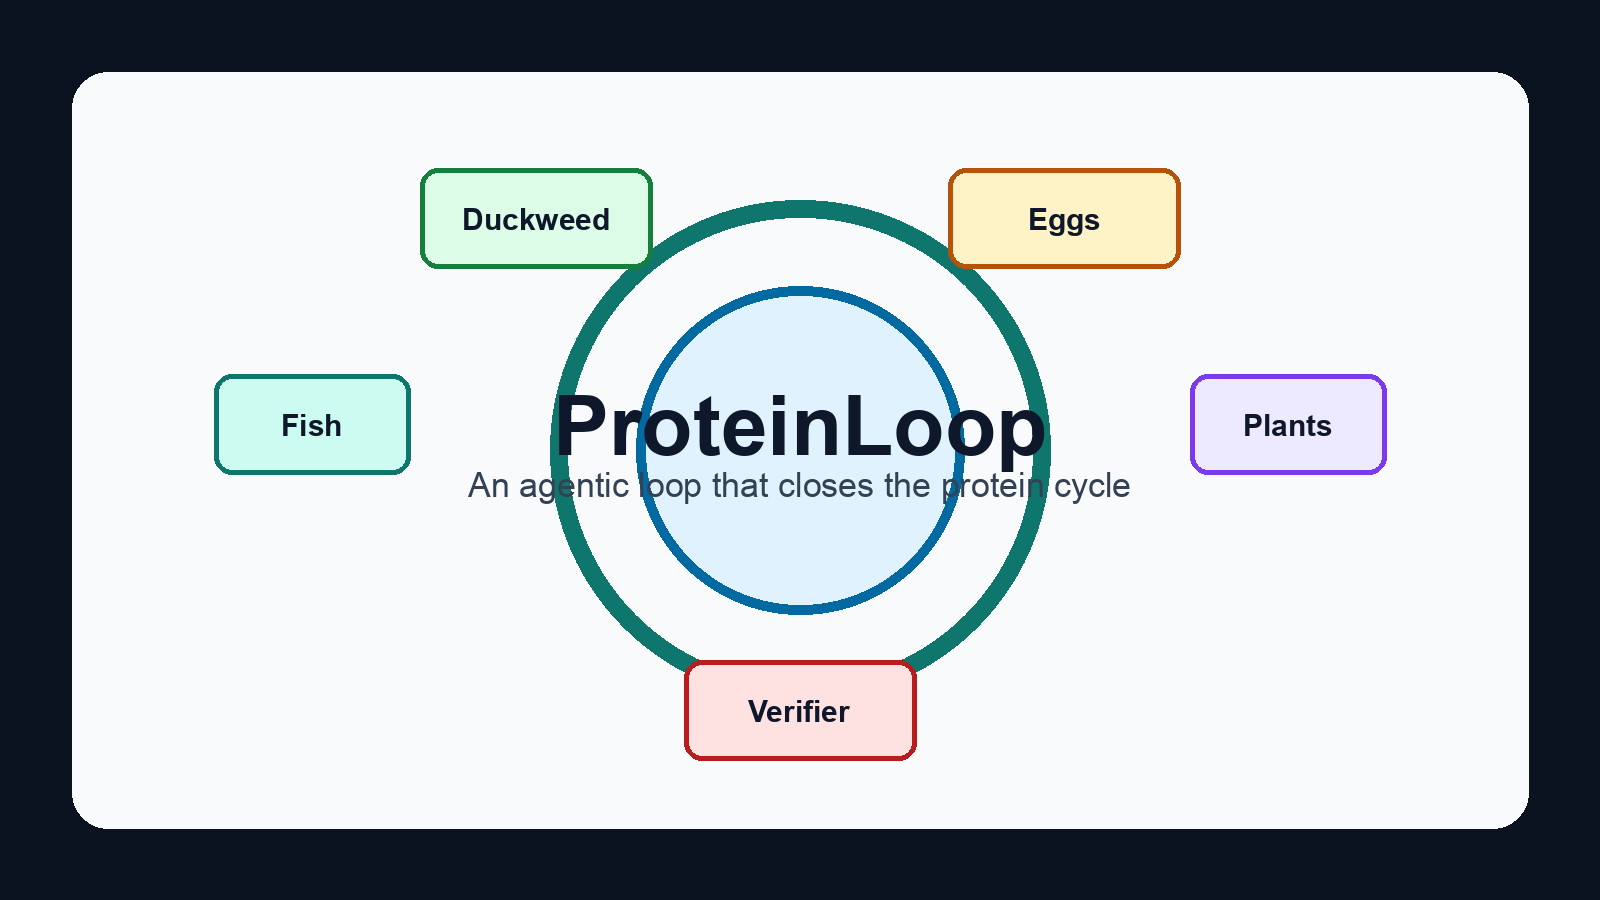
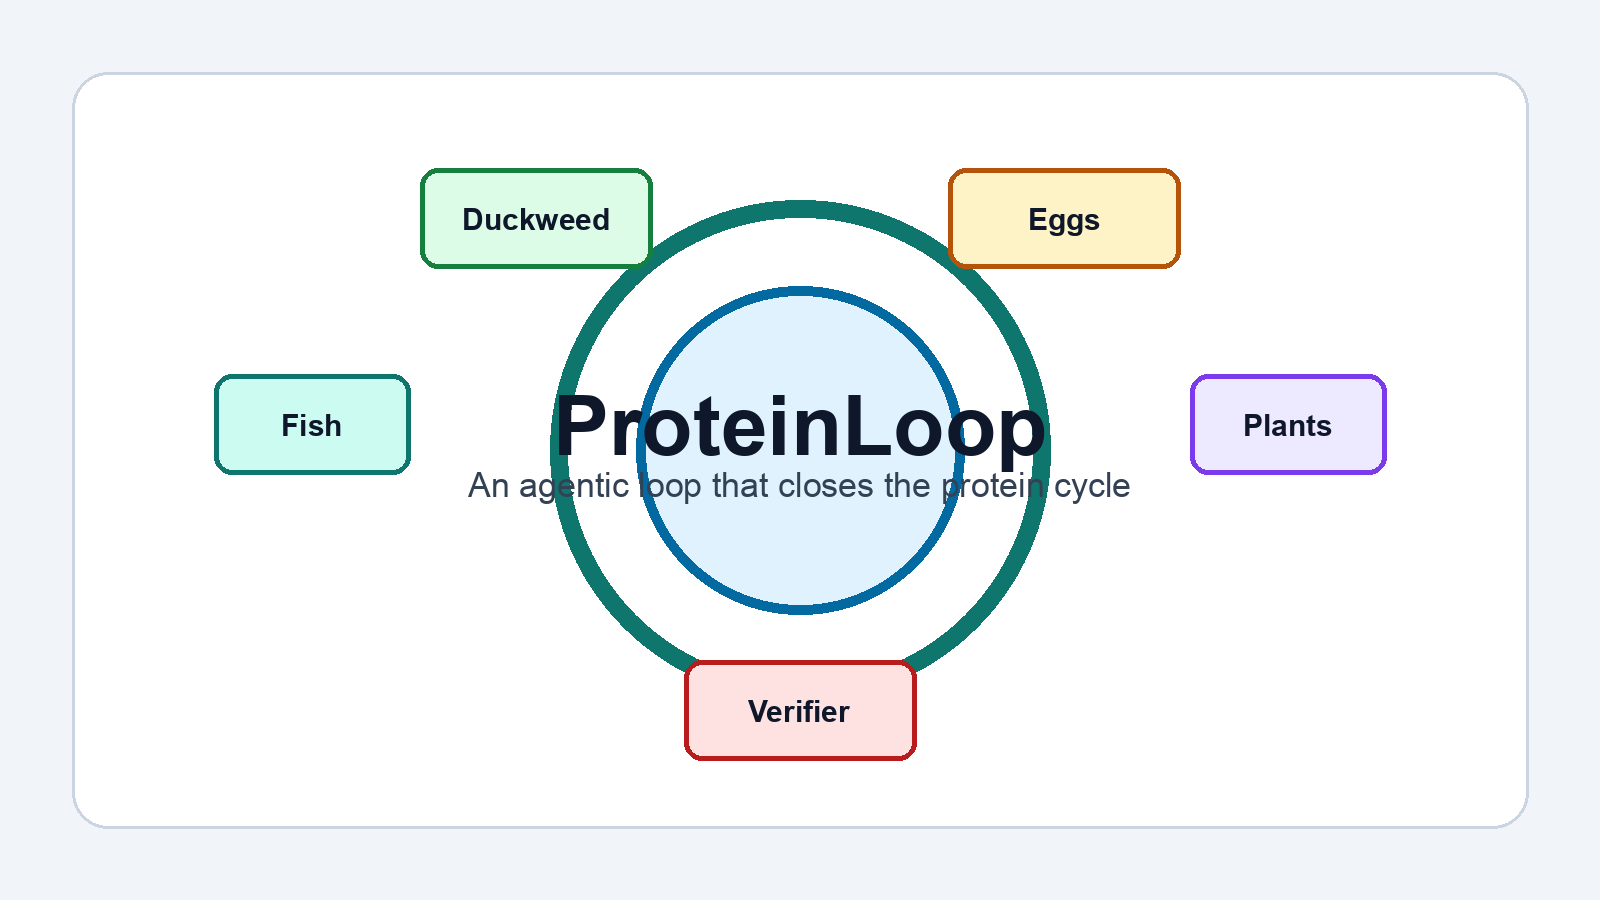
docs: switch README workflow to light theme

Changed region(s): [[0.0, 0.0, 1.0, 1.0]]

diff --git a/scripts/render_cover_png.py b/scripts/render_cover_png.py
@@ -34,9 +34,15 @@ def centered(draw: ImageDraw.ImageDraw, xy: tuple[int, int], text: str, fnt, fil
 
 
 def main() -> None:
-    image = Image.new("RGB", (1600, 900), "#0b1220")
+    image = Image.new("RGB", (1600, 900), "#f1f5f9")
     draw = ImageDraw.Draw(image)
-    draw.rounded_rectangle((72, 72, 1528, 828), radius=36, fill="#f8fafc")
+    draw.rounded_rectangle(
+        (72, 72, 1528, 828),
+        radius=36,
+        fill="#ffffff",
+        outline="#cbd5e1",
+        width=3,
+    )
 
     title_font = font(84, bold=True)
     subtitle_font = font(34)

diff --git a/README.md b/README.md
@@ -26,19 +26,33 @@ ProteinLoop coordinates fish, freshwater prawns, hydroponic plants, duckweed, an
 ## System Workflow
 
 ```mermaid
-flowchart TD
-    Radio["Physical DECT NR+ evidence<br/>FT / PT sequence #100"] --> Replay["Explicit simulated sensor replay"]
-    Replay --> Simulator["Deterministic ecosystem simulator"]
-    Simulator --> Snapshot["Current ecosystem state"]
-    Snapshot --> Agents["4 Gemma / Sagents domain agents"]
-    Agents --> Supervisor["Parent supervisor<br/>structured action proposal"]
-    Supervisor --> Verifier{"Deterministic safety verifier"}
-    Verifier -- "unsafe" --> Reject["Reject action + append RLVR trace"]
-    Verifier -- "safe routine" --> Apply["Apply simulator step"]
-    Verifier -- "safe but risky" --> HITL["Spanish producer HITL"]
-    HITL -- "approve or edit" --> Apply
-    HITL -- "reject" --> Reject
-    Apply --> Simulator
+%%{init: {"theme":"base","themeVariables":{"darkMode":false,"background":"#ffffff","primaryColor":"#ecfdf5","primaryTextColor":"#0f172a","primaryBorderColor":"#0f766e","lineColor":"#64748b","secondaryColor":"#e0f2fe","tertiaryColor":"#f8fafc","clusterBkg":"#f8fafc","clusterBorder":"#cbd5e1","edgeLabelBackground":"#ffffff"}}}%%
+flowchart LR
+    subgraph Canvas["ProteinLoop control loop"]
+        direction LR
+        Radio["Physical DECT NR+<br/>sequence #100"] --> Replay["Explicit simulated<br/>sensor replay"]
+        Replay --> Simulator["Deterministic simulator<br/>current ecosystem state"]
+        Simulator --> Agents["4 Gemma / Sagents<br/>domain agents"]
+        Agents --> Supervisor["Parent supervisor<br/>structured proposal"]
+        Supervisor --> Verifier{"Safety verifier"}
+        Verifier -- "unsafe" --> Reject["Reject + RLVR trace"]
+        Verifier -- "safe routine" --> Apply["Apply simulator step"]
+        Verifier -- "safe but risky" --> HITL["Spanish producer HITL"]
+        HITL -- "approve or edit" --> Apply
+        HITL -- "reject" --> Reject
+        Apply --> Simulator
+    end
+    classDef physical fill:#e0f2fe,stroke:#0369a1,color:#0f172a
+    classDef agent fill:#ecfdf5,stroke:#0f766e,color:#0f172a
+    classDef decision fill:#fff7ed,stroke:#c2410c,color:#0f172a
+    classDef action fill:#dcfce7,stroke:#15803d,color:#0f172a
+    classDef rejected fill:#fee2e2,stroke:#b91c1c,color:#0f172a
+    class Radio,Replay physical
+    class Agents,Supervisor agent
+    class Verifier,HITL decision
+    class Simulator,Apply action
+    class Reject rejected
+    style Canvas fill:#ffffff,stroke:#cbd5e1,stroke-width:1px,color:#0f172a
 ```
 
 The boundaries are deliberate:
@@ -53,26 +67,26 @@ The boundaries are deliberate:
 Changes enter the repository through a fixed evidence loop. Code is not the source of product intent; the active feature spec is.
 
 ```mermaid
+%%{init: {"theme":"base","themeVariables":{"darkMode":false,"background":"#ffffff","primaryColor":"#ecfdf5","primaryTextColor":"#0f172a","primaryBorderColor":"#0f766e","lineColor":"#64748b","secondaryColor":"#e0f2fe","tertiaryColor":"#f8fafc","clusterBkg":"#f8fafc","clusterBorder":"#cbd5e1","edgeLabelBackground":"#ffffff"}}}%%
 flowchart LR
-    subgraph Define["1. Define"]
-        direction TB
-        Intent["User intent"] --> Constitution["Constitution + agent rules"]
-        Constitution --> Spec["spec.md<br/>value + acceptance criteria"]
-        Spec --> Plan["plan.md + tasks.md<br/>vertical slice"]
+    subgraph Canvas["Spec-to-evidence loop"]
+        direction LR
+        Intent["1. Intent<br/>constitution + rules"] --> Spec["2. Specify<br/>spec + plan + tasks"]
+        Spec --> Red["3. Prove<br/>failing executable test"]
+        Red --> Code["4. Implement<br/>smallest vertical slice"]
+        Code --> Gate{"5. Verify<br/>acceptance passes?"}
+        Gate -- "no" --> Red
+        Gate -- "yes" --> Ship["6. Ship<br/>evidence + commit"]
     end
-    subgraph Build["2. Build"]
-        direction TB
-        Red["Failing executable test"] --> Code["Smallest coherent implementation"]
-        Code --> Verify["Tests + runtime evidence"]
-        Verify --> Gate{"Acceptance criteria pass?"}
-    end
-    subgraph Deliver["3. Deliver"]
-        direction TB
-        Evidence["Versioned evidence"] --> Ship["Commit + checksum manifest"]
-    end
-    Plan --> Red
-    Gate -- "no" --> Red
-    Gate -- "yes" --> Evidence
+    classDef define fill:#e0f2fe,stroke:#0369a1,color:#0f172a
+    classDef build fill:#ecfdf5,stroke:#0f766e,color:#0f172a
+    classDef decision fill:#fff7ed,stroke:#c2410c,color:#0f172a
+    classDef deliver fill:#dcfce7,stroke:#15803d,color:#0f172a
+    class Intent,Spec define
+    class Red,Code build
+    class Gate decision
+    class Ship deliver
+    style Canvas fill:#ffffff,stroke:#cbd5e1,stroke-width:1px,color:#0f172a
 ```
 
 | Phase | Repository artifact | Exit condition |

diff --git a/specs/052-agentic-readme-workflow/spec.md b/specs/052-agentic-readme-workflow/spec.md
@@ -15,10 +15,11 @@ Repository visitors can understand what ProteinLoop does, where agents are allow
 3. The product workflow shall show physical DECT evidence, simulator state, Gemma/Sagents proposals, deterministic verification, Spanish HITL, mutation, and trace evidence.
 4. The development workflow shall show constitution, spec, plan, failing test, implementation, verification, review, and versioned evidence.
 5. Current capabilities shall be summarized by executable proof rather than by implementation chronology.
-6. GitHub Mermaid diagrams shall use short labels that remain readable in light and dark themes.
+6. GitHub Mermaid diagrams shall force a light theme with a white canvas, dark text, restrained colored accents, and short labels.
 7. The complete spec system shall remain discoverable through links to the constitution, `AGENTS.md`, and `specs/`.
 8. Existing run, test, deployment, and submission commands shall remain available below the redesigned workflow.
 9. The README shall not claim that Nordic `hello_dect` contains chemical sensor readings or that local Gemma is AMD-hosted.
+10. The README cover shall use a light neutral background rather than the previous dark navy frame.
 
 ## Acceptance Criteria
 
@@ -27,3 +28,4 @@ Repository visitors can understand what ProteinLoop does, where agents are allow
 3. A new evidence table links directly to the simulator, Sagents, Horde, Gemma, DECT, and Docker proof artifacts.
 4. The README still links to the test and demo instructions.
 5. Markdown links introduced by this feature resolve to files or headings in the repository.
+6. The rendered cover and both Mermaid diagrams use the documented light palette even when the surrounding GitHub theme is dark.

diff --git a/specs/052-agentic-readme-workflow/tasks.md b/specs/052-agentic-readme-workflow/tasks.md
@@ -6,4 +6,5 @@
 - [x] Add the agentic development workflow.
 - [x] Add direct evidence and source-of-truth links.
 - [x] Validate Markdown structure and local links.
+- [x] Apply and render the explicit light color scheme.
 - [x] Publish the redesigned README.